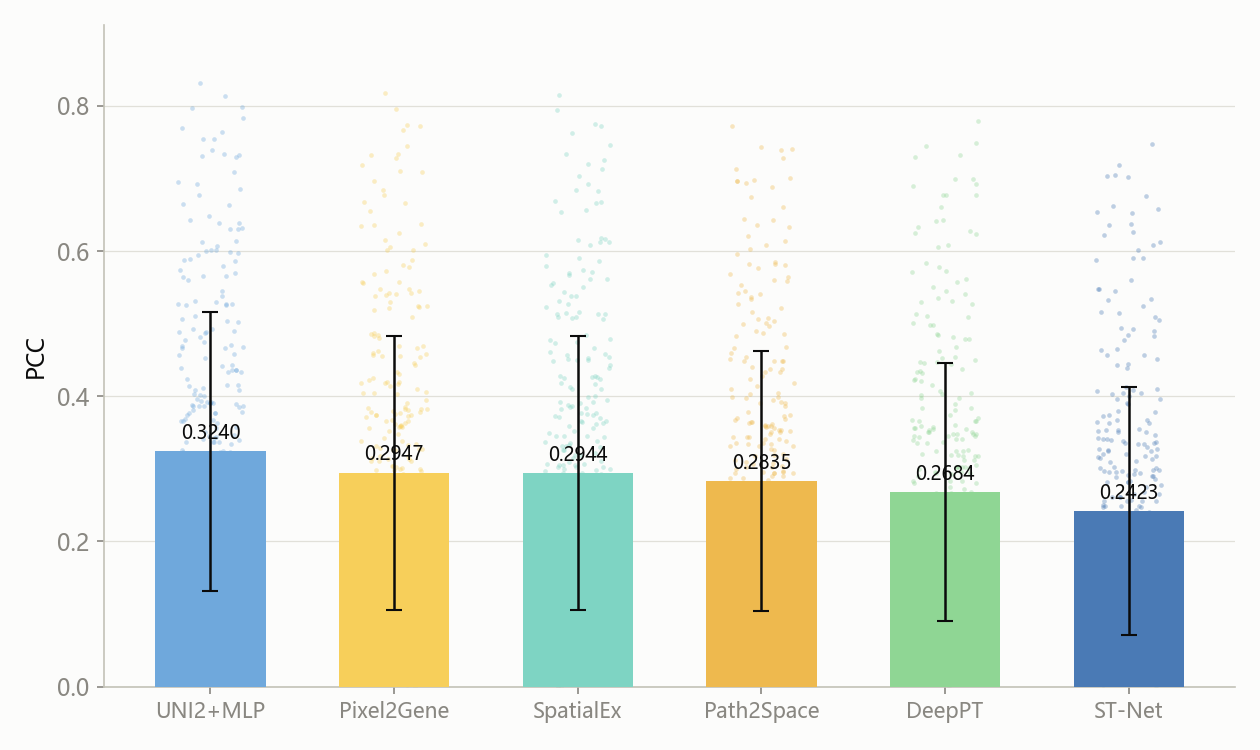
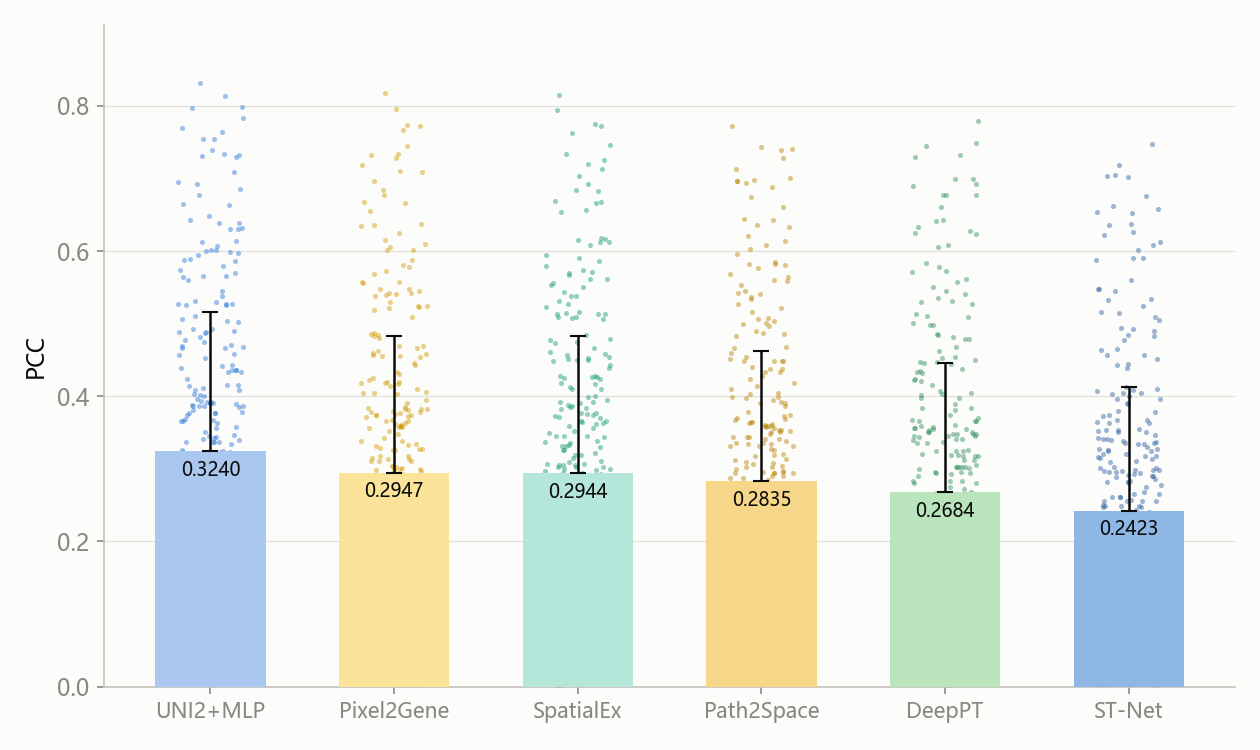
PCC柱状图微调: 柱色更浅+散点色加深+误差棒只上侧+标签移柱顶内侧

diff --git a/scripts/plot_he_results_partial.py b/scripts/plot_he_results_partial.py
@@ -47,14 +47,22 @@ METHODS = [
     ("DeepPT", "bench_deeppt_resnet50_unf", MAGENTA),
     ("ST-Net", "bench_st_net_unf", GREEN),
 ]
-# PCC 柱状图：黄、绿、蓝为主，清新浅色系
+# PCC 柱状图：黄、绿、蓝为主，很浅的柱色 + 稍深的散点色
 BAR_COLORS = {
-    "UNI2+MLP": "#6fa8dc",     # 浅蓝
-    "Pixel2Gene": "#f7cf5a",   # 浅黄
-    "SpatialEx": "#7ed4c3",    # 浅青绿
-    "Path2Space": "#eeb94e",   # 浅暗黄
-    "DeepPT": "#8fd694",       # 浅绿
-    "ST-Net": "#4a7ab5",       # 中蓝
+    "UNI2+MLP": "#a9c7ef",     # 极浅蓝
+    "Pixel2Gene": "#fbe39a",   # 极浅黄
+    "SpatialEx": "#b4e6da",    # 极浅青绿
+    "Path2Space": "#f6d689",   # 极浅暗黄
+    "DeepPT": "#b9e4bc",       # 极浅绿
+    "ST-Net": "#8fb7e6",       # 浅蓝
+}
+SCATTER_COLORS = {
+    "UNI2+MLP": "#2a78d6",     # 深蓝
+    "Pixel2Gene": "#d19a00",   # 深黄
+    "SpatialEx": "#149a74",    # 深青绿
+    "Path2Space": "#b98200",   # 深暗黄
+    "DeepPT": "#2f8f5a",       # 深绿
+    "ST-Net": "#2a5f9e",       # 深蓝
 }
 OUT_ROOT = "outputs"
 
@@ -101,17 +109,20 @@ cols = [BAR_COLORS[n] for n in names_s]
 
 fig, ax = plt.subplots(figsize=(8.4, 5.0))
 x = np.arange(len(names_s))
-ax.bar(x, means_s, yerr=stds_s, color=cols, width=0.6,
+# 误差棒只画上侧（mean + 1std）
+yerr_up = np.array([np.zeros(len(stds_s)), stds_s])
+ax.bar(x, means_s, yerr=yerr_up, color=cols, width=0.6,
        error_kw=dict(ecolor=INK, lw=1.2, capsize=4), zorder=3)
-# 逐基因 PCC 散点（横向轻微抖动，展示分布）
+# 逐基因 PCC 散点（横向轻微抖动，展示分布；颜色比柱深以保持可见）
 rng = np.random.default_rng(0)
 for xi, n in zip(x, names_s):
     pccs = data[n]["pccs"]
     jx = rng.uniform(-0.18, 0.18, size=len(pccs))
-    ax.scatter(xi + jx, pccs, s=5, color=BAR_COLORS[n], alpha=0.35,
+    ax.scatter(xi + jx, pccs, s=6, color=SCATTER_COLORS[n], alpha=0.45,
                linewidths=0, zorder=2)
+# 数值标签放在柱顶内侧（避开误差棒线）
 for xi, m in zip(x, means_s):
-    ax.text(xi, m + 0.01, f"{m:.4f}", ha="center", va="bottom", fontsize=9, color=INK)
+    ax.text(xi, m - 0.012, f"{m:.4f}", ha="center", va="top", fontsize=9, color=INK)
 ax.set_xticks(x)
 ax.set_xticklabels(names_s, fontsize=10)
 ax.set_ylabel("PCC")
